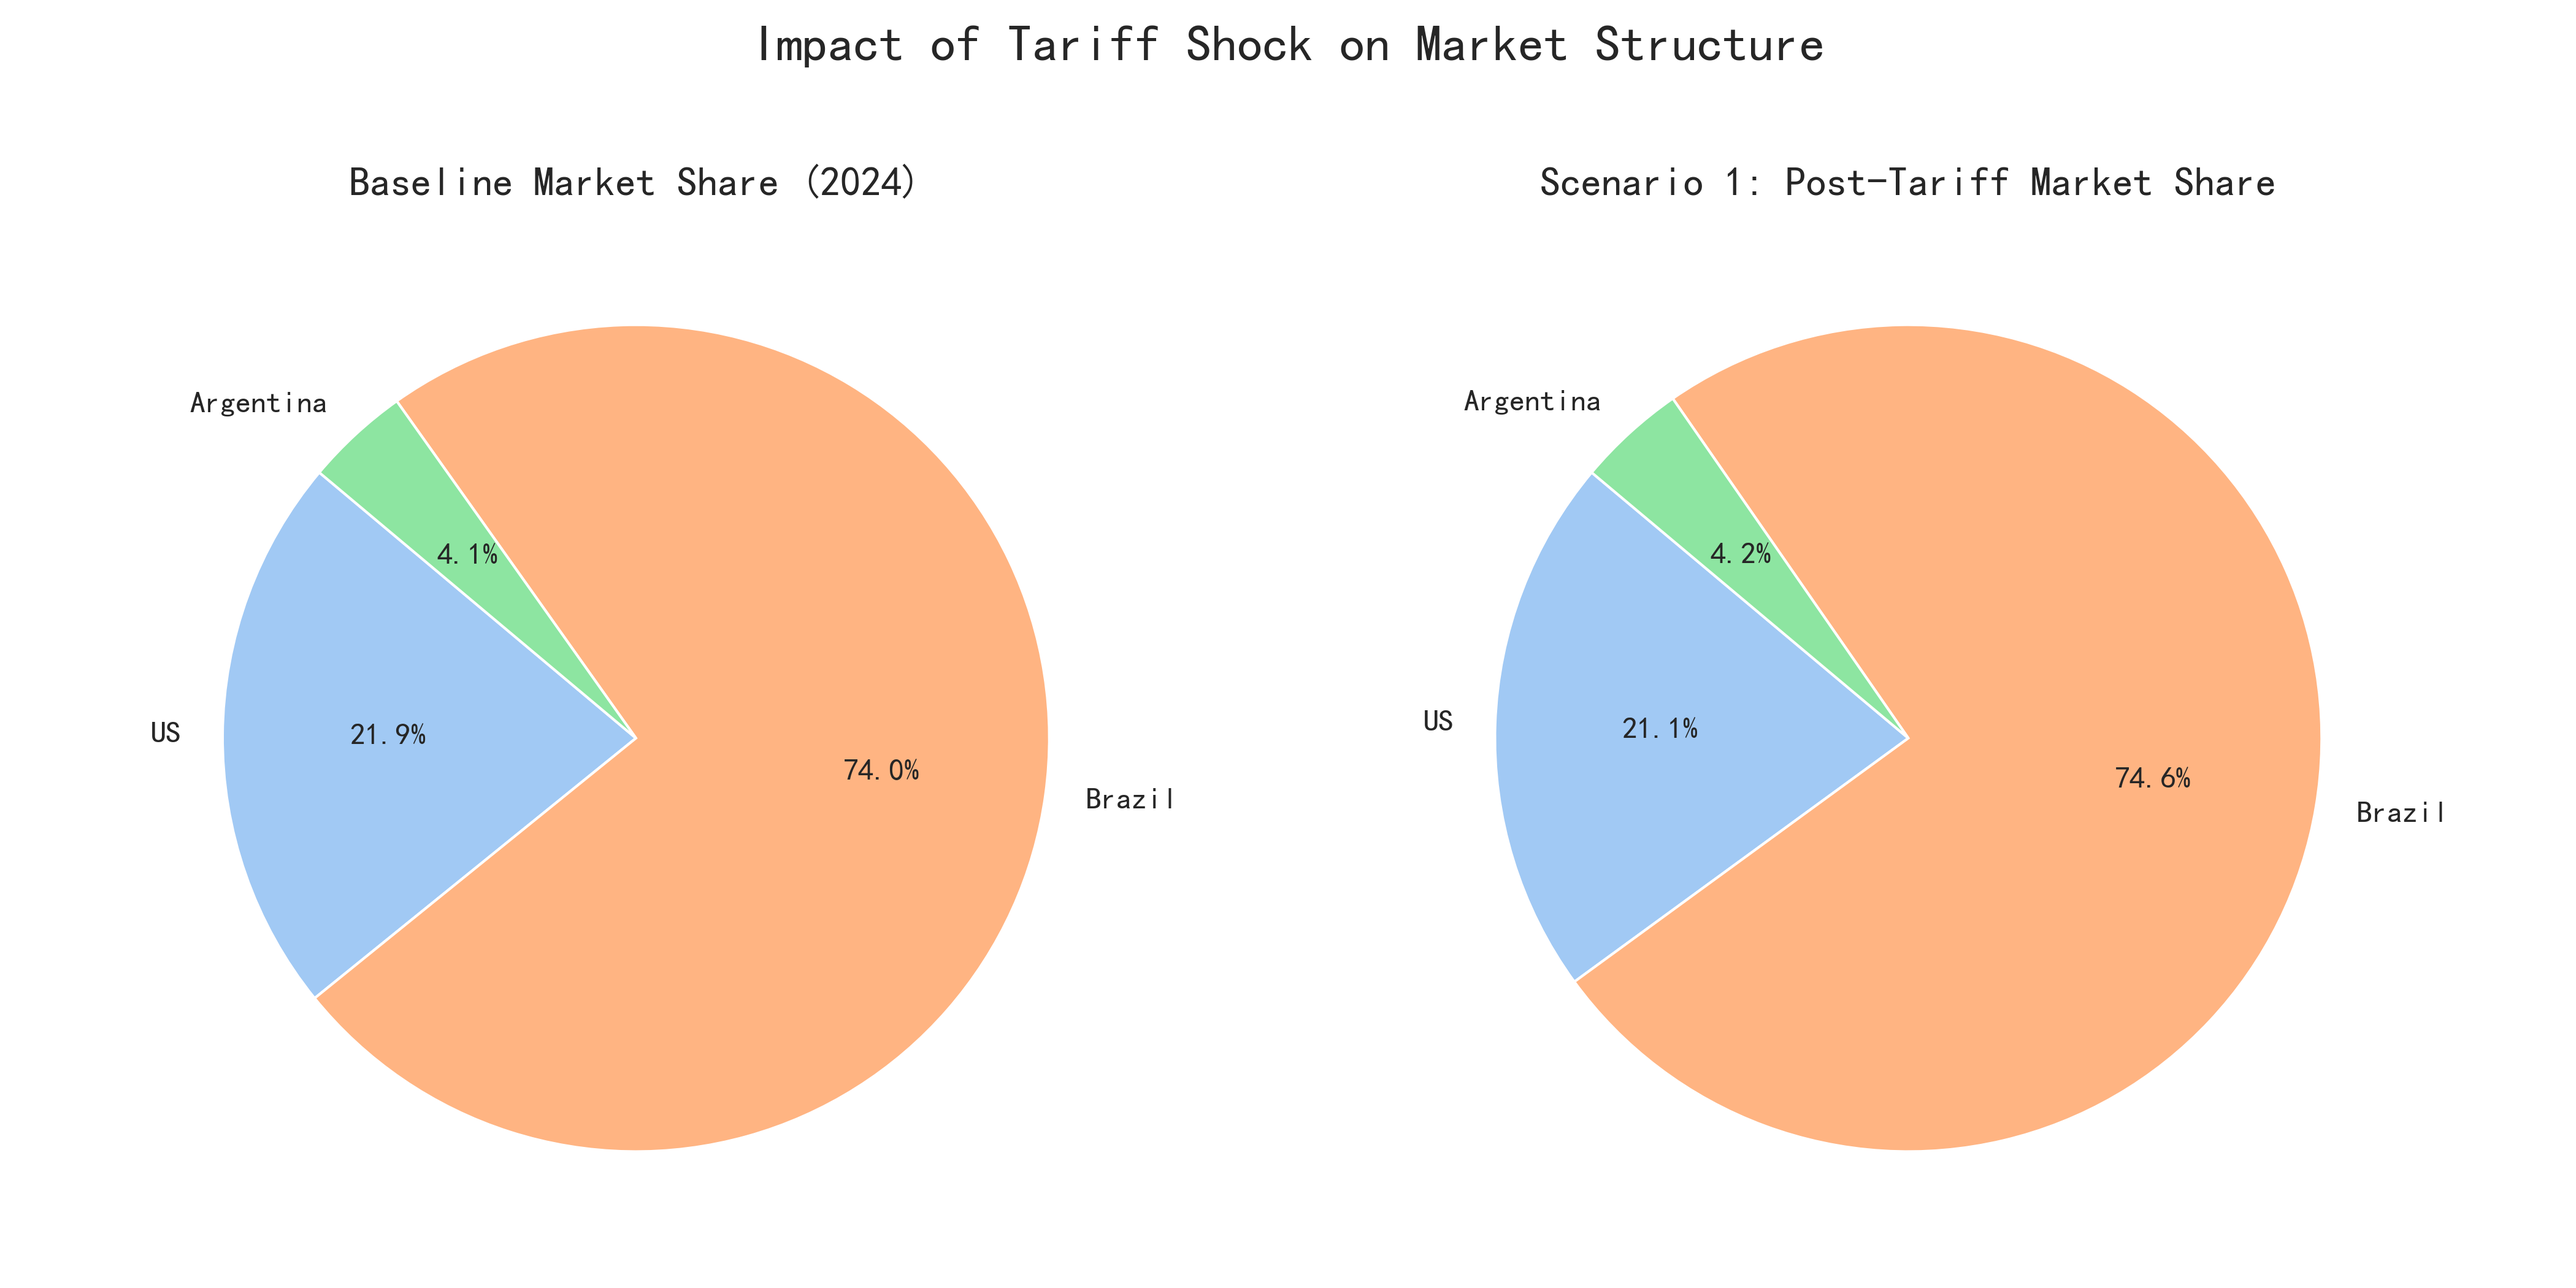
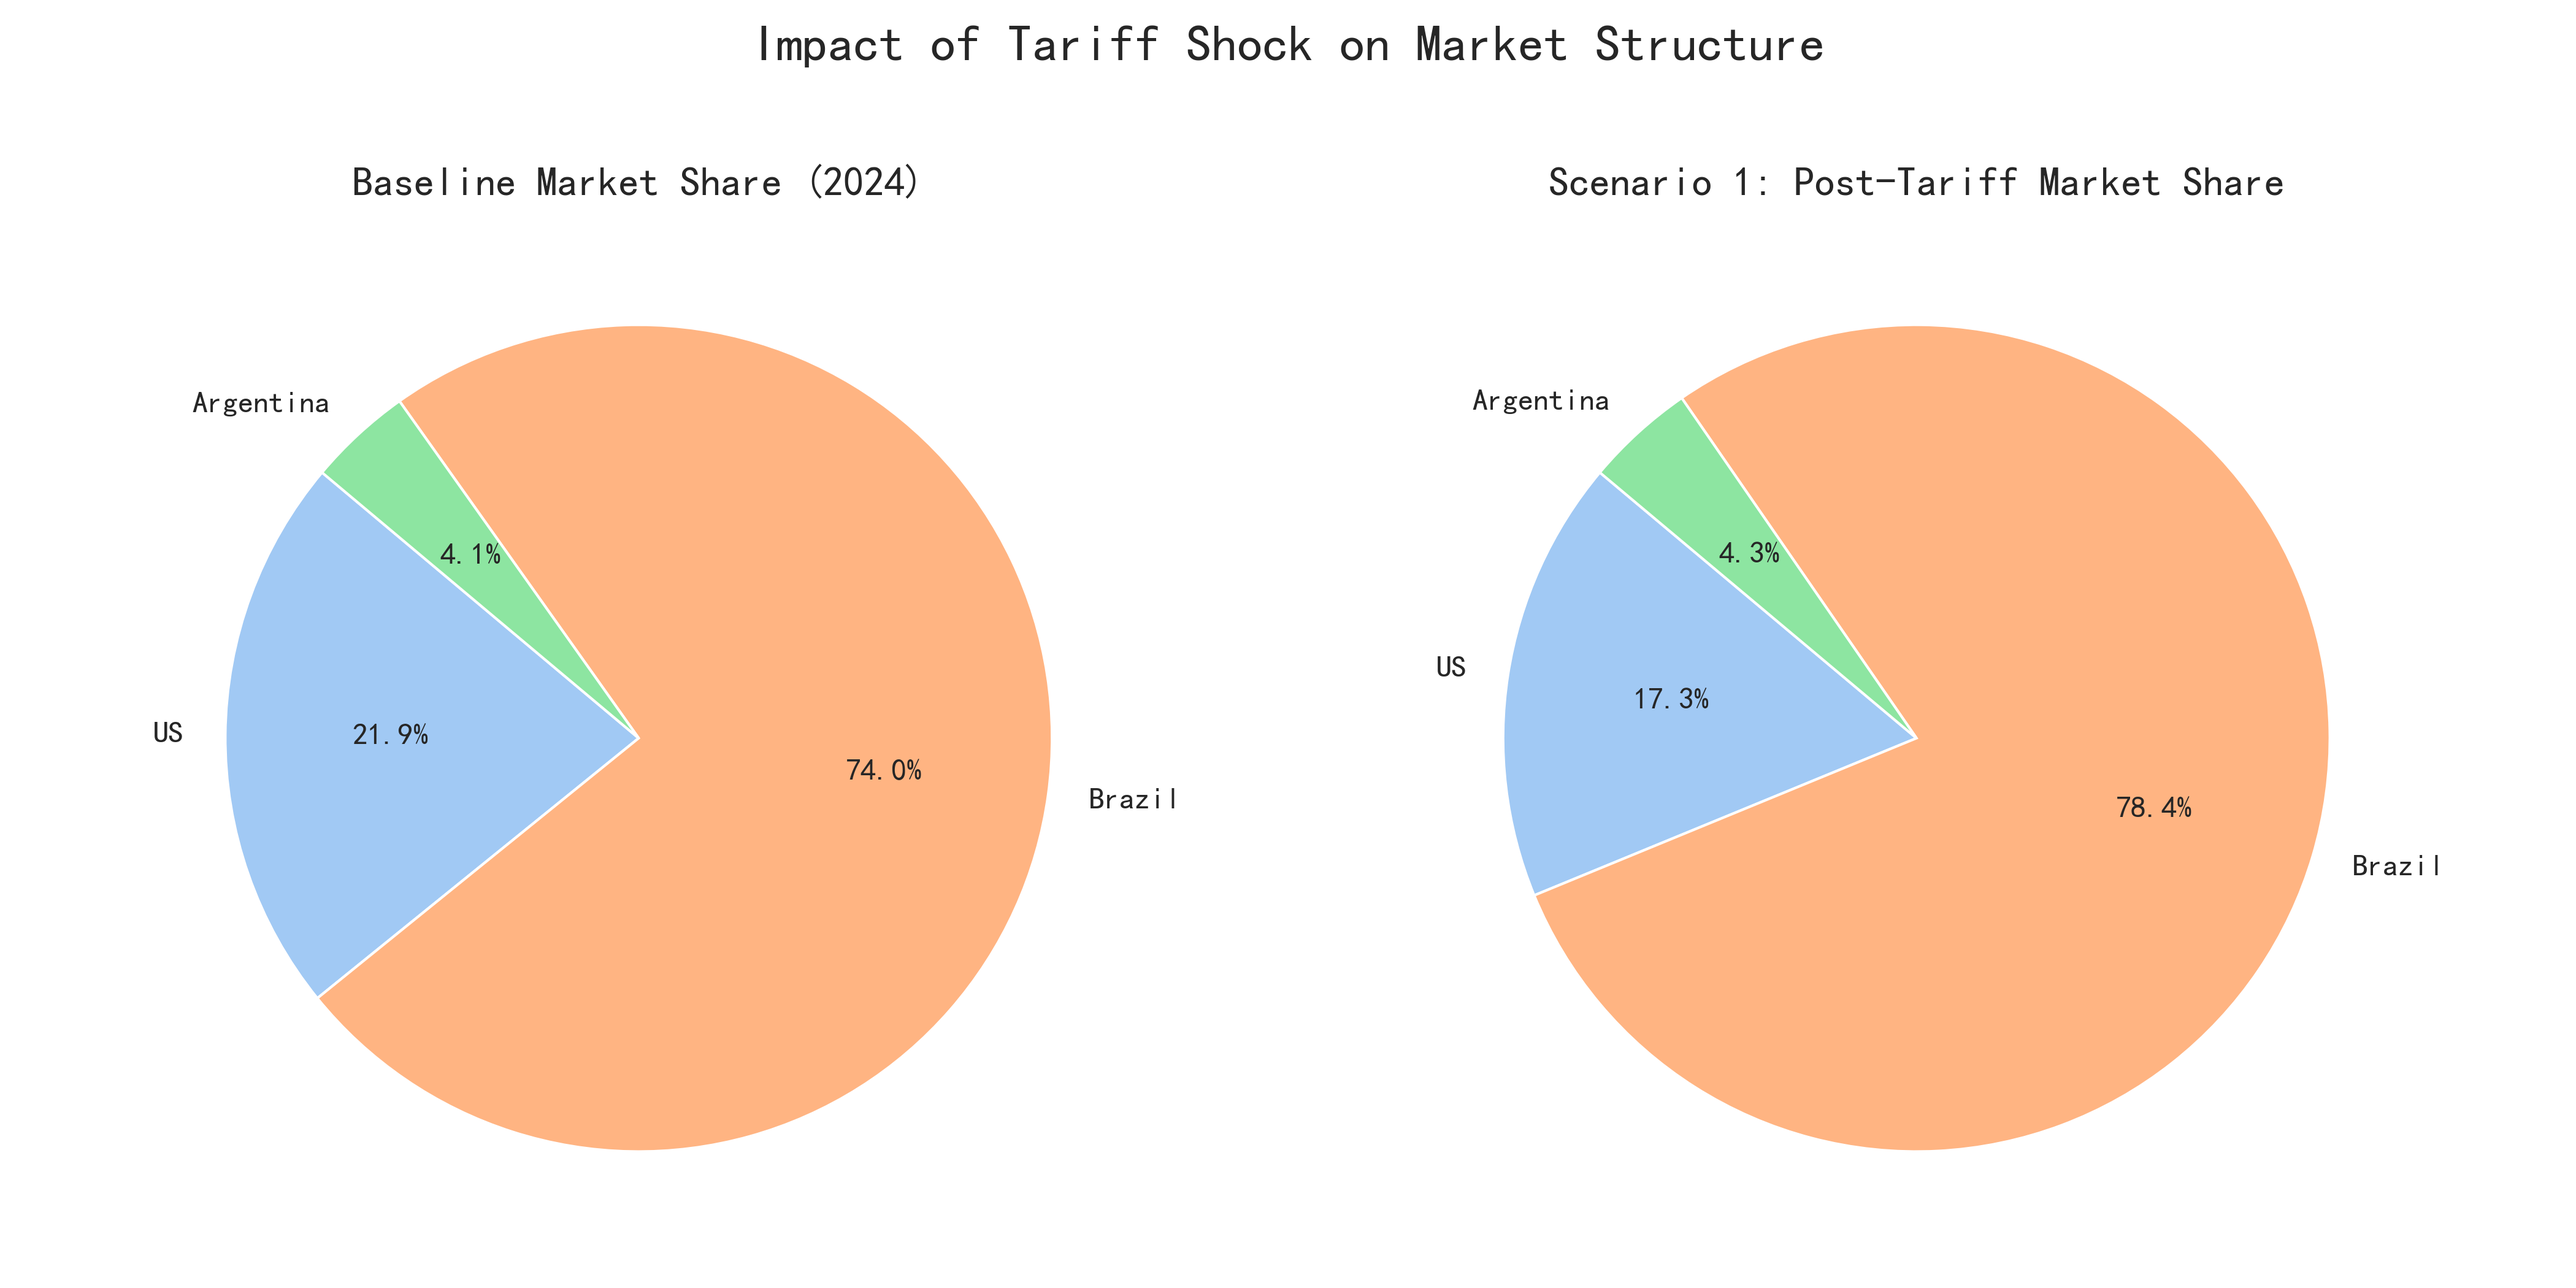
codex

diff --git a/model_q1.py b/model_q1.py
@@ -190,9 +190,9 @@ def main():
     
     # 3. Define Scenarios
     # Scenario 1: China Retaliates against US (+25% tariff on US Soy)
-    # Add demand contraction and simple supply caps to reflect finite replacement capacity.
+    # Supply caps reflect rough export capacity (million-ton scale from literature).
     scenario_1 = {
-        "demand_shock": -0.08,  # overall demand contraction (e.g., tighter policy/uncertainty)
+        "demand_shock": 0.0,  # no additional total-demand shock (rely on price response)
         "supply_caps": {
             # Caps based on plausible export ceilings (thousand tons -> converted to tons)
             "Brazil": {"q_cap": 95_000_000, "markup": 0.10},
@@ -266,7 +266,7 @@ def main():
     # US Price -10%, Brazil/Arg Price +5%
     # Scenario 2: Tariff + Price Effects, softer demand shock
     scenario_2 = {
-        "demand_shock": -0.05,  # lighter contraction when US cuts price
+        "demand_shock": 0.0,  # no extra contraction; price effects drive demand
         "supply_caps": {
             "Brazil": {"q_cap": 95_000_000, "markup": 0.08},
             "Argentina": {"q_cap": 8_000_000, "markup": 0.08},

diff --git a/README.md b/README.md
@@ -1,16 +1,16 @@
 # 2025 APMCM Problem C — Question 1 (Soybean Tariff Shock)
 
-Project for APMCM 2025 Problem C, Question 1. It cleans data, calibrates an Armington/CES model for China’s soybean imports from the US/Brazil/Argentina, simulates tariff/price shocks, and visualizes results.
+Project for APMCM 2025 Problem C, Q1. It cleans data, calibrates an Armington/CES model for China’s soybean imports from the US/Brazil/Argentina, simulates tariff/price shocks, and visualizes results.
 
 ## Project Layout
 ```
 .
 ├── 2025 APMCM Problems C/      # Official attachments (tariff DB, DataWeb)
-├── external_data/              # Extra data for Q1 (WITS China soybean imports)
-│   ├── wits/                   # WITS By-HS6Product (calendar year, tons/kg, USD)
+├── external_data/
+│   ├── wits/                   # WITS By-HS6Product (calendar year, tons, USD)
 │   └── psd/                    # USDA PSD world balance (market year, thousand tons)
 ├── output/
-│   ├── external_cleaned/       # Cleaned external soybean data (model input)
+│   ├── external_cleaned/       # Model input and cleaned external data
 │   ├── prediction_results/     # Scenario & sensitivity outputs
 │   └── images/                 # Plots
 ├── wash/                       # Official-data cleaning pipeline (general use)
@@ -24,16 +24,23 @@ Project for APMCM 2025 Problem C, Question 1. It cleans data, calibrates an Armi
 ```
 
 - Data sources & units:
-  - WITS: calendar-year China imports; quantities converted to tons, values USD; used directly as model baseline (`output/external_cleaned/china_soy_imports.csv`).
-  - PSD: USDA PSD world balance (market year, units likely thousand tons); cleaned to `output/external_cleaned/psd_soy_balance.csv`; used for industry-impact comparison, mind the unit when interpreting ratios.
-  - Official attachments (wash): US-side tariff/exports panels; not directly used by the model.
+  - WITS (external): calendar-year China imports; converted to tons/USD; used as model baseline (`output/external_cleaned/china_soy_imports.csv`).
+- PSD (USDA): world balance, market year, values in thousand tons; cleaned to `output/external_cleaned/psd_soy_balance.csv`; used for industry-impact comparison (convert units when comparing to model outputs).
+- Official attachments (wash): US-side tariff/exports panels; not directly used by the model.
+```text
+Assumption sources (external):
+- Tariffs: MFN 3% for soybeans; 2018 retaliation +25 p.p.; recent 10% surcharge on US soy (soygrowers, Reuters).
+- Freight/logistics: US≈55, AR≈79, BR≈103 USD/ton (Datamar/ERS logistics comparisons; US lowest, BR highest).
+- Supply capacity caps: recent export tops ~60Mt (US), ~95Mt (BR), <8Mt raw beans (AR) from USDA/ERS/farmdoc reports.
+- Elasticities: demand |η|<1 (e.g., -0.61 short run); substitution 0.7–1.5 range (Armington/EDM studies).
+```
 
 ## How to Run (Q1 workflow)
 1) Clean external soybean data  
 ```bash
 python process_external_data.py
 ```
-Reads `external_data/*.xlsx` (WITS By-HS6Product), keeps US/Brazil/Argentina, computes tons/FOB/tariff, writes `output/external_cleaned/china_soy_imports.csv`.
+Reads `external_data/wits/*.xlsx` (WITS By-HS6Product), keeps US/Brazil/Argentina, computes tons/FOB/tariff, writes `output/external_cleaned/china_soy_imports.csv`.
 
 2) Run model (calibration + scenarios + sensitivity)  
 ```bash
@@ -61,36 +68,36 @@ Writes to `output/images/`:
 python process_psd_soy.py
 ```
 Outputs:
-- `output/external_cleaned/psd_soy_balance.csv` (tidy PSD balance)
-- `output/prediction_results/industry_impact_psd_export_basis.csv` (Scenario 1 delta_q vs PSD exports; remember PSD exports are in thousand tons, model delta_q in tons—convert if computing ratios)
+- `output/external_cleaned/psd_soy_balance.csv`
+- `output/prediction_results/industry_impact_psd_export_basis.csv` (scenario 1 delta_q vs PSD exports; PSD in thousand tons, model in tons → convert when interpreting ratios)
 
-4) (Optional) Clean official attachments for broader use  
+5) (Optional) Clean official attachments for broader use  
 ```bash
 python wash/datawash.py
 ```
-Produces general tariff/trade panels in `wash/output/` (not directly used by Q1 model but useful for other questions).
 
 ## Model Assumptions (model_q1.py)
 - Base year: 2024; exporters: US, Brazil, Argentina.
 - Substitution elasticity σ = 3.0 (sensitivity 2–8).
 - Demand elasticity η = 0.5 (sensitivity 0.15–1.0).
-- Transport costs (USD/ton): US 20, Brazil 25, Argentina 23.
-- Tariffs in base data: US 28%, Brazil/Argentina 3%.
+- Transport costs (USD/ton): US 55, Brazil 103, Argentina 79 (aligned to reported logistics order).
+- Tariffs in base data: US 13% (3% MFN + 10% surcharge), Brazil/Argentina 3%.
 - Scenario 1: +25 p.p. tariff on US only.  
   Scenario 2: Scenario 1 plus US FOB -10%, Brazil/Argentina FOB +5%.
-- Demand shock (total demand contraction) and supply caps/markups applied per scenario to avoid “infinite replacement” by Brazil/Argentina.
+- Supply caps/markups (tons) to avoid “infinite replacement”: US 60M, Brazil 95M, Argentina 8M. No extra demand shock applied (price/elasticity drive demand response).
 
 ## Key Outputs
-- `output/external_cleaned/china_soy_imports.csv`: Cleaned baseline imports (2020–2024).
-- `output/prediction_results/prediction_results_scenario1.csv`/`scenario2.csv`: q0/q_new, delta_q, pct_change, share_new, V_new.
+- `output/external_cleaned/china_soy_imports.csv`: Cleaned baseline imports (2015–2024 WITS).
+- `output/prediction_results/prediction_results_scenario1.csv` / `scenario2.csv`: q0/q_new, delta_q, pct_change, share_new, V_new.
 - `output/prediction_results/sensitivity_analysis_sigma.csv`: US response vs σ.
 - `output/prediction_results/sensitivity_analysis_eta.csv`: Total and US response vs η.
 - `output/prediction_results/vulnerability_report.txt`: Aggregate volume/price shifts (Scenario 1).
-- `output/images/*.png`: All plots for reporting.
+- `output/prediction_results/industry_impact_psd_export_basis.csv`: Scenario 1 delta_q vs PSD exports (unit-aware).
+- `output/images/*.png`: All plots.
 
 ## Dependencies
 - pandas, numpy, openpyxl, matplotlib, seaborn
 
 ## Notes
-- The Q1 model currently uses external WITS data for China’s soybean imports; official attachment panels are available via `wash/` if you need an all-official-data pipeline.
-- If overall import rises under tariffs and you prefer a demand contraction, raise η or increase the price/tariff shock in the scenarios.***
+- Model uses external WITS data; wash outputs are available if you build an all-official pipeline.
+- When comparing to PSD (thousand tons, market year), convert units and mind year definitions.***
